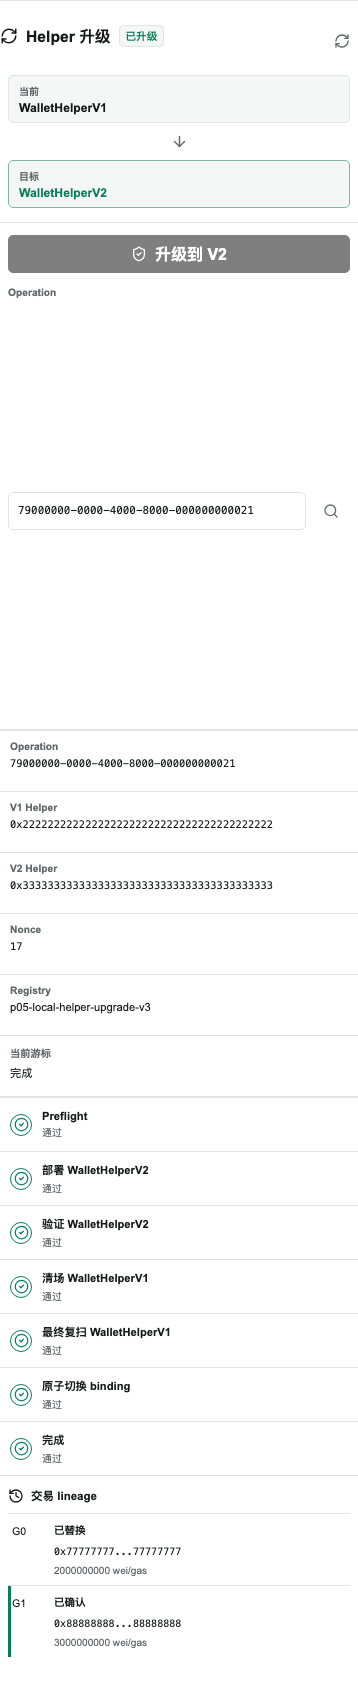
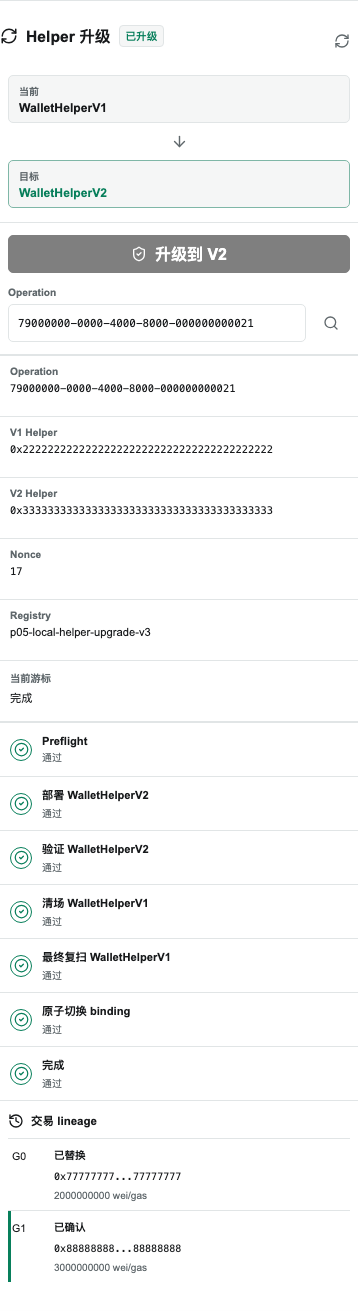
chore: auto-sync 2026-08-21 02:58:36 +0800

diff --git a/apps/web/src/styles.css b/apps/web/src/styles.css
@@ -10440,6 +10440,10 @@ html[data-theme="dark"] .local-helper-upgrade-versions > span[data-target="true"
     max-width: none;
   }
 
+  .local-helper-upgrade-query {
+    flex: 0 0 auto;
+  }
+
   .local-helper-upgrade-facts {
     grid-template-columns: repeat(2, minmax(0, 1fr));
   }
